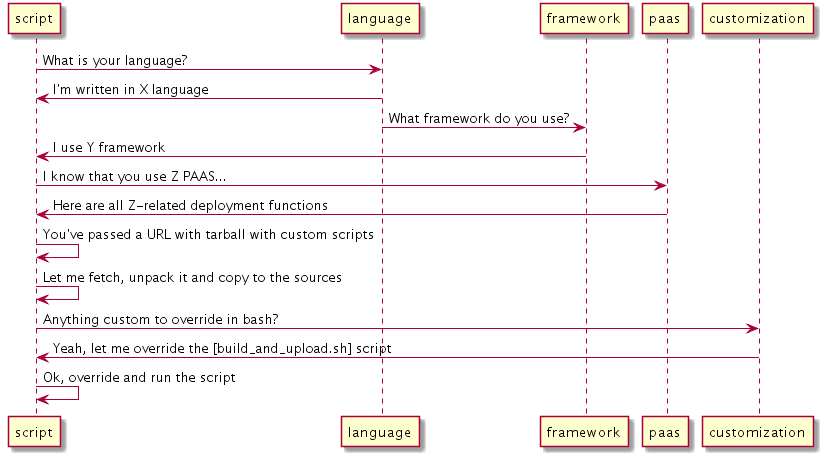
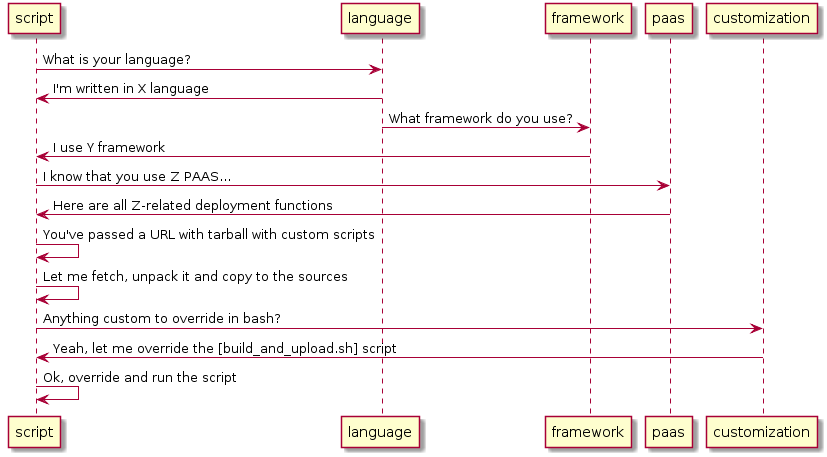
Sync docs

diff --git a/docs/DOCS.html b/docs/DOCS.html
@@ -1345,7 +1345,7 @@ code repository and read <code>src//main/bash/README.adoc</code>.</p>
 </div>
 <div class="imageblock">
 <div class="content">
-<img src="build-and-deployment.png" alt="build and deployment" width="1279" height="831">
+<img src="build-and-deployment.png" alt="build and deployment" width="1285" height="832">
 </div>
 </div>
 <div class="paragraph">
@@ -1369,7 +1369,7 @@ code repository and read <code>src//main/bash/README.adoc</code>.</p>
 </div>
 <div class="imageblock">
 <div class="content">
-<img src="sourcing.png" alt="sourcing" width="823" height="456">
+<img src="sourcing.png" alt="sourcing" width="827" height="457">
 </div>
 </div>
 <div class="paragraph">

diff --git a/docs/INTRO.html b/docs/INTRO.html
@@ -1284,7 +1284,7 @@ code repository and read <code>src//main/bash/README.adoc</code>.</p>
 </div>
 <div class="imageblock">
 <div class="content">
-<img src="build-and-deployment.png" alt="build and deployment" width="1279" height="831">
+<img src="build-and-deployment.png" alt="build and deployment" width="1285" height="832">
 </div>
 </div>
 <div class="paragraph">
@@ -1308,7 +1308,7 @@ code repository and read <code>src//main/bash/README.adoc</code>.</p>
 </div>
 <div class="imageblock">
 <div class="content">
-<img src="sourcing.png" alt="sourcing" width="823" height="456">
+<img src="sourcing.png" alt="sourcing" width="827" height="457">
 </div>
 </div>
 <div class="paragraph">
